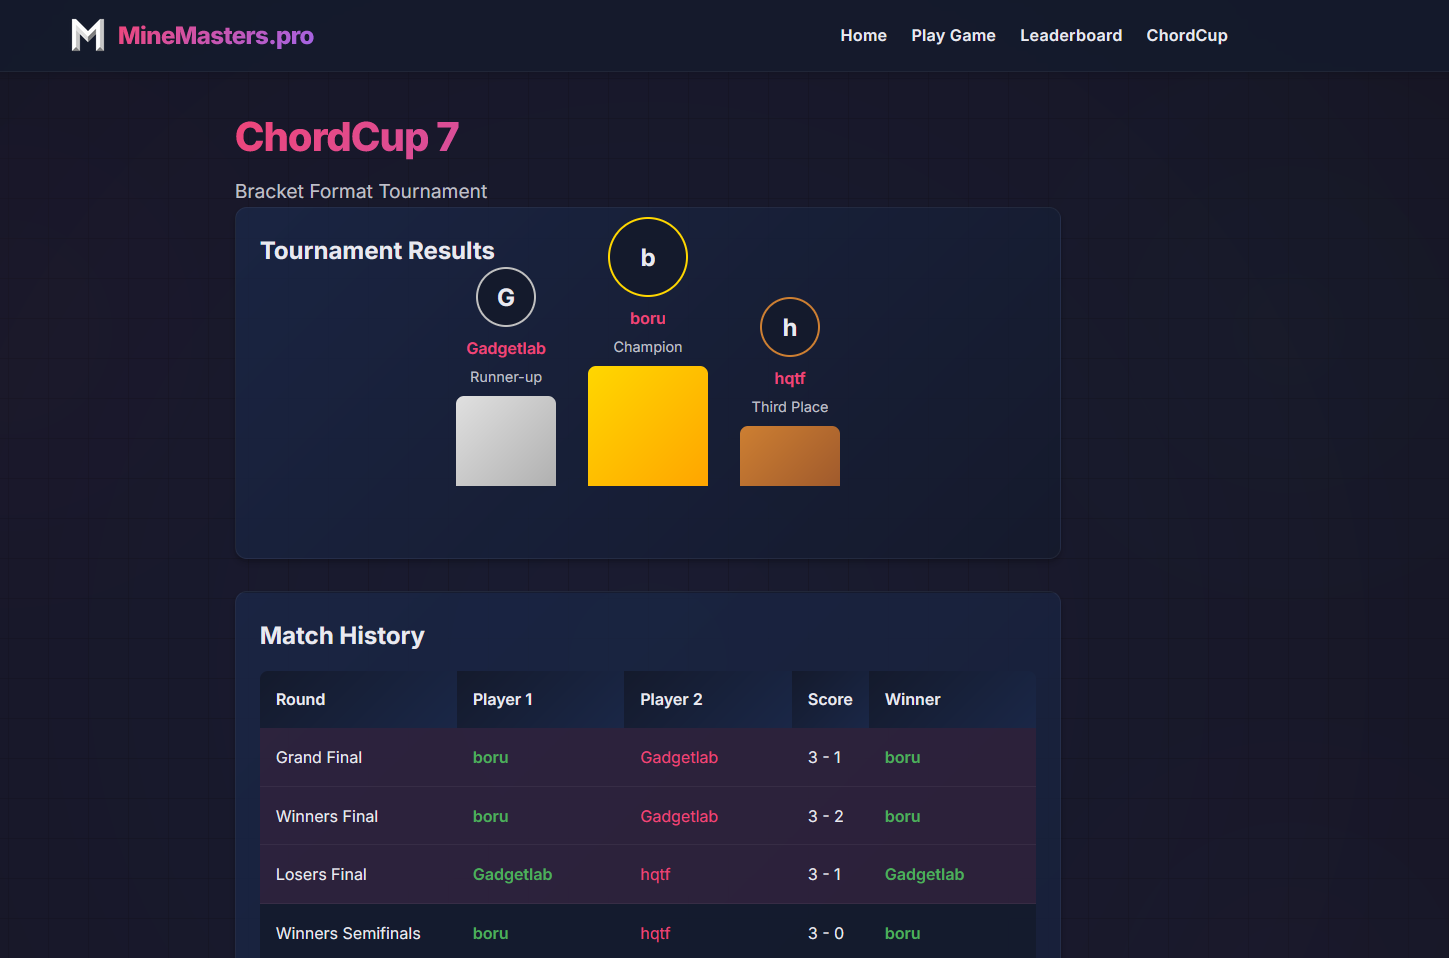
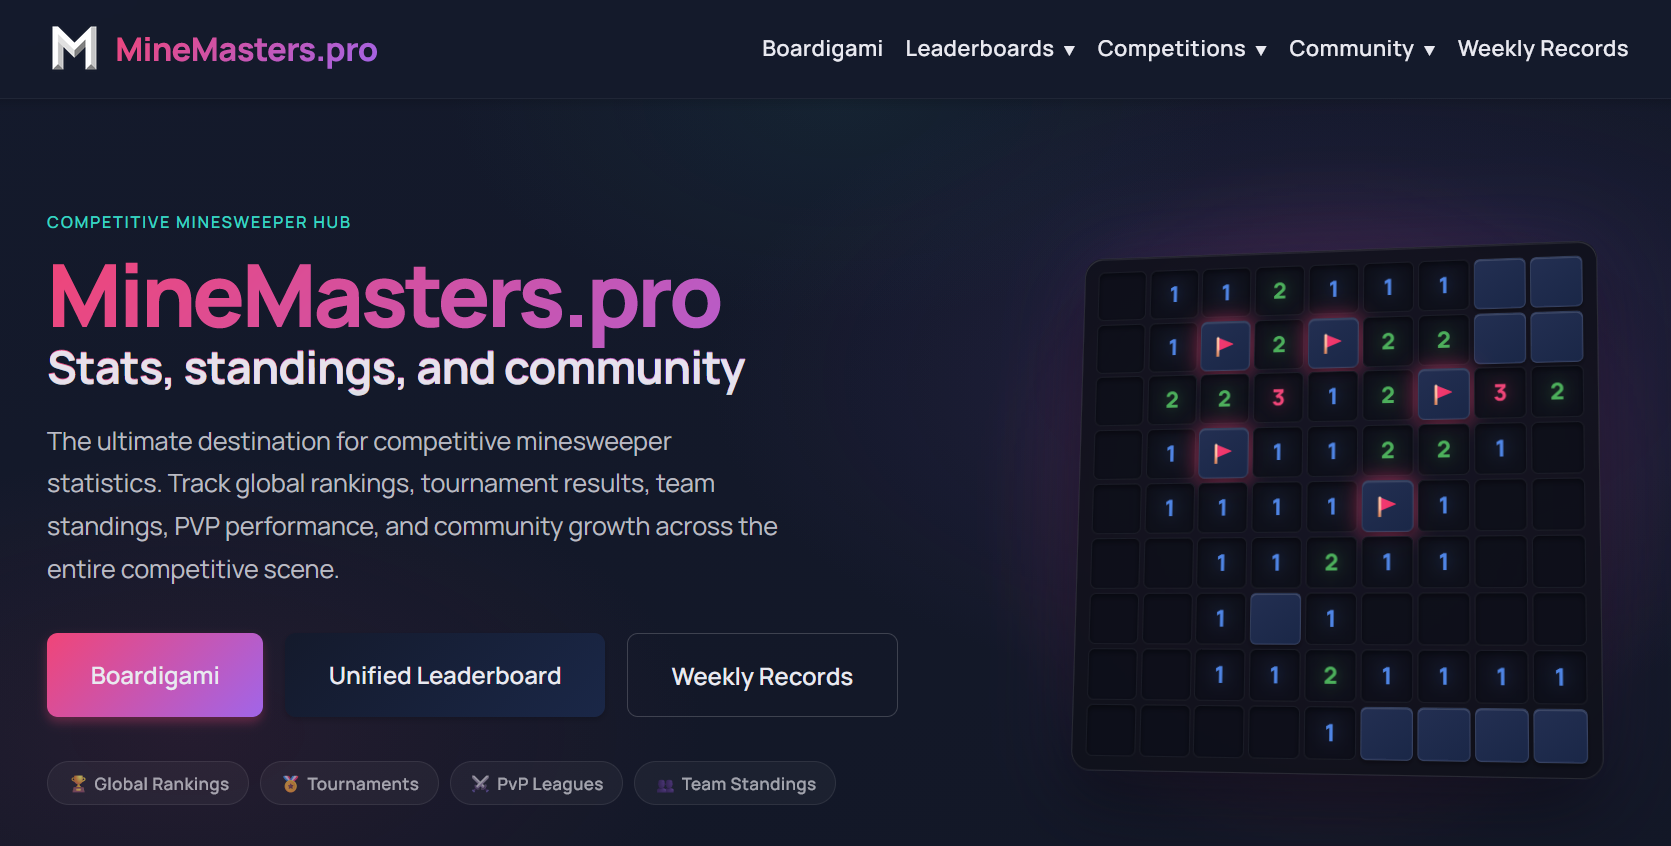
Update footer tagline and MineMasters project info
Remove the decorative footer tagline suffix across all pages, update MineMasters project timeline to 2025, and simplify JavaScript description. Also updates MineMasters logo image.

diff --git a/portfolio/index.html b/portfolio/index.html
@@ -277,7 +277,7 @@
             <h2>MineMasters.pro</h2>
             <span class="pill pill-live">Live in production</span>
           </div>
-          <div class="case-role">Role: everything &middot; frontend, APIs, database, payments, ops &middot; 2023 &ndash; present</div>
+          <div class="case-role">Role: everything &middot; frontend, APIs, database, payments, ops &middot; 2025 &ndash; present</div>
 
           <div class="case-cols">
             <div class="case-text">
@@ -288,7 +288,7 @@
                 15+ interconnected apps that the community uses daily.
               </p>
               <p>
-                The public site is deliberately lean — hand-written JavaScript, no framework
+                The public site is deliberately lean - JavaScript, no framework
                 overhead, fast on any device. Behind it sits a set of <strong>Node.js/Express
                 services with MySQL</strong> (kept in private repos) handling accounts,
                 leaderboard ingestion, and event registration.
@@ -546,7 +546,7 @@
 
   <footer class="footer">
     <div class="container footer-inner">
-      <div class="footer-tagline">&copy; Jesse Sall &middot; built by hand, like a good sandcastle</div>
+      <div class="footer-tagline">&copy; Jesse Sall</div>
       <div class="footer-links">
         <a href="https://github.com/JLSall" target="_blank" rel="noopener">GitHub</a>
         <a href="https://minemasters.pro" target="_blank" rel="noopener">MineMasters</a>

diff --git a/about/index.html b/about/index.html
@@ -201,7 +201,7 @@
 
   <footer class="footer">
     <div class="container footer-inner">
-      <div class="footer-tagline">&copy; Jesse Sall &middot; built by hand, like a good sandcastle</div>
+      <div class="footer-tagline">&copy; Jesse Sall</div>
       <div class="footer-links">
         <a href="https://github.com/JLSall" target="_blank" rel="noopener">GitHub</a>
         <a href="https://minemasters.pro" target="_blank" rel="noopener">MineMasters</a>

diff --git a/index.html b/index.html
@@ -308,7 +308,7 @@
 
   <footer class="footer">
     <div class="container footer-inner">
-      <div class="footer-tagline">&copy; Jesse Sall &middot; built by hand, like a good sandcastle</div>
+      <div class="footer-tagline">&copy; Jesse Sall</div>
       <div class="footer-links">
         <a href="https://github.com/JLSall" target="_blank" rel="noopener">GitHub</a>
         <a href="https://minemasters.pro" target="_blank" rel="noopener">MineMasters</a>